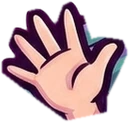
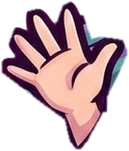
Wave: sleeve drawn over the wrist (no seam); idle gestures no longer interrupted by blinks (cat yawned twice)
Claude-Session: https://claude.ai/code/session_01HUNJumBGERKkkPNAkMEwWd

diff --git a/js/cauldron.js b/js/cauldron.js
@@ -74,7 +74,7 @@
     return im;
   }
   const SPR = {};
-  ["hut", "pot", "logs", "stones", "stones_front", "ladle", "ww_idle", "ww_wow", "ww_laugh", "ww_blink", "ww_cheer", "ww_wavebase", "ww_hand", "ww_tap", "ct_idle", "ct_wow", "ct_blink", "ct_yawn", "ct_look", "ct_paw", "ct_tail", "flame0", "flame1", "flame2", "flame3", "flame4"].forEach((n) => { SPR[n] = loadImg(ART + n + ".webp"); });
+  ["hut", "pot", "logs", "stones", "stones_front", "ladle", "ww_idle", "ww_wow", "ww_laugh", "ww_blink", "ww_cheer", "ww_wavebase", "ww_hand", "ww_cap", "ww_tap", "ct_idle", "ct_wow", "ct_blink", "ct_yawn", "ct_look", "ct_paw", "ct_tail", "flame0", "flame1", "flame2", "flame3", "flame4"].forEach((n) => { SPR[n] = loadImg(ART + n + ".webp"); });
   const sprReady = () => Object.keys(SPR).every((k) => SPR[k].complete && SPR[k].naturalWidth);
   const sprWait = (cb) => {
     if (sprReady()) return cb();
@@ -1566,8 +1566,8 @@
     drawWitch(ctx) {
       const o = this.act.witch;
       let pose = o.pose !== "idle" ? o.pose : (o.blinkT < 0 ? "blink" : "idle");
-      if (pose === "idle" && o.gest === "wave") pose = "wave";   // body is one picture; the hand is its own layer, rocked at the wrist below
-      else if (pose === "idle" && o.gest === "tap") pose = (Math.floor(o.gT * 3.4) % 2 === 0) ? "tap" : "idle";
+      if (o.pose === "idle" && o.gest === "wave") pose = "wave";   // body is one picture; the hand is its own layer, rocked at the wrist below
+      else if (o.pose === "idle" && o.gest === "tap") pose = (Math.floor(o.gT * 3.4) % 2 === 0) ? "tap" : "idle";
       const imgs = { idle: SPR.ww_idle, blink: SPR.ww_blink, wow: SPR.ww_wow, laugh: SPR.ww_laugh, cheer: SPR.ww_cheer, wave: SPR.ww_wavebase, tap: SPR.ww_tap };
       const im = imgs[pose] && imgs[pose].naturalWidth ? imgs[pose] : imgs.idle;
       if (!im || !im.naturalWidth) return;
@@ -1587,17 +1587,20 @@
         // the waving hand rocks smoothly about her wrist (sprite pixels: wrist 128,507; hand layer starts at 43,388)
         const k = WITCH.w / 820, T = o.gT, D = o.gDur;
         const env = Math.min(1, T / 0.3, (D - T) / 0.3);
-        const ang = (Math.sin(T * TAU * 1.9) * 0.4 - 0.05) * Math.max(0, env);
+        const ang = (Math.sin(T * TAU * 1.9) * 0.3 - 0.03) * Math.max(0, env);
         ctx.globalAlpha = 1;
         ctx.translate(x + 128 * k, y + 507 * k); ctx.rotate(ang);
         ctx.drawImage(SPR.ww_hand, (43 - 128) * k, (388 - 507) * k, SPR.ww_hand.naturalWidth * k, SPR.ww_hand.naturalHeight * k);
+        // the sleeve is drawn over the wrist, so the hand turns inside the cuff with no seam
+        ctx.rotate(-ang); ctx.translate(-(x + 128 * k), -(y + 507 * k)); ctx.translate(x, y);
+        if (SPR.ww_cap.naturalWidth) ctx.drawImage(SPR.ww_cap, 78 * k, 485 * k, SPR.ww_cap.naturalWidth * k, SPR.ww_cap.naturalHeight * k);
       }
       ctx.restore();
     }
     drawCat(ctx) {
       const o = this.act.cat, t = this.time;
       let pose = o.pose !== "idle" ? o.pose : (o.blinkT < 0 ? "blink" : "idle");
-      if (pose === "idle" && o.gest) pose = o.gest === "look" ? (o.gT > 0.15 && o.gT < o.gDur - 0.15 ? "look" : "idle") : "yawn";
+      if (o.pose === "idle" && o.gest) pose = o.gest === "look" ? (o.gT > 0.15 && o.gT < o.gDur - 0.15 ? "look" : "idle") : "yawn";
       const imgs = { idle: SPR.ct_idle, blink: SPR.ct_blink, wow: SPR.ct_wow, paw: SPR.ct_paw, laugh: SPR.ct_blink, yawn: SPR.ct_yawn, look: SPR.ct_look };
       const im = imgs[pose] && imgs[pose].naturalWidth ? imgs[pose] : imgs.idle;
       if (!im || !im.naturalWidth) return;
